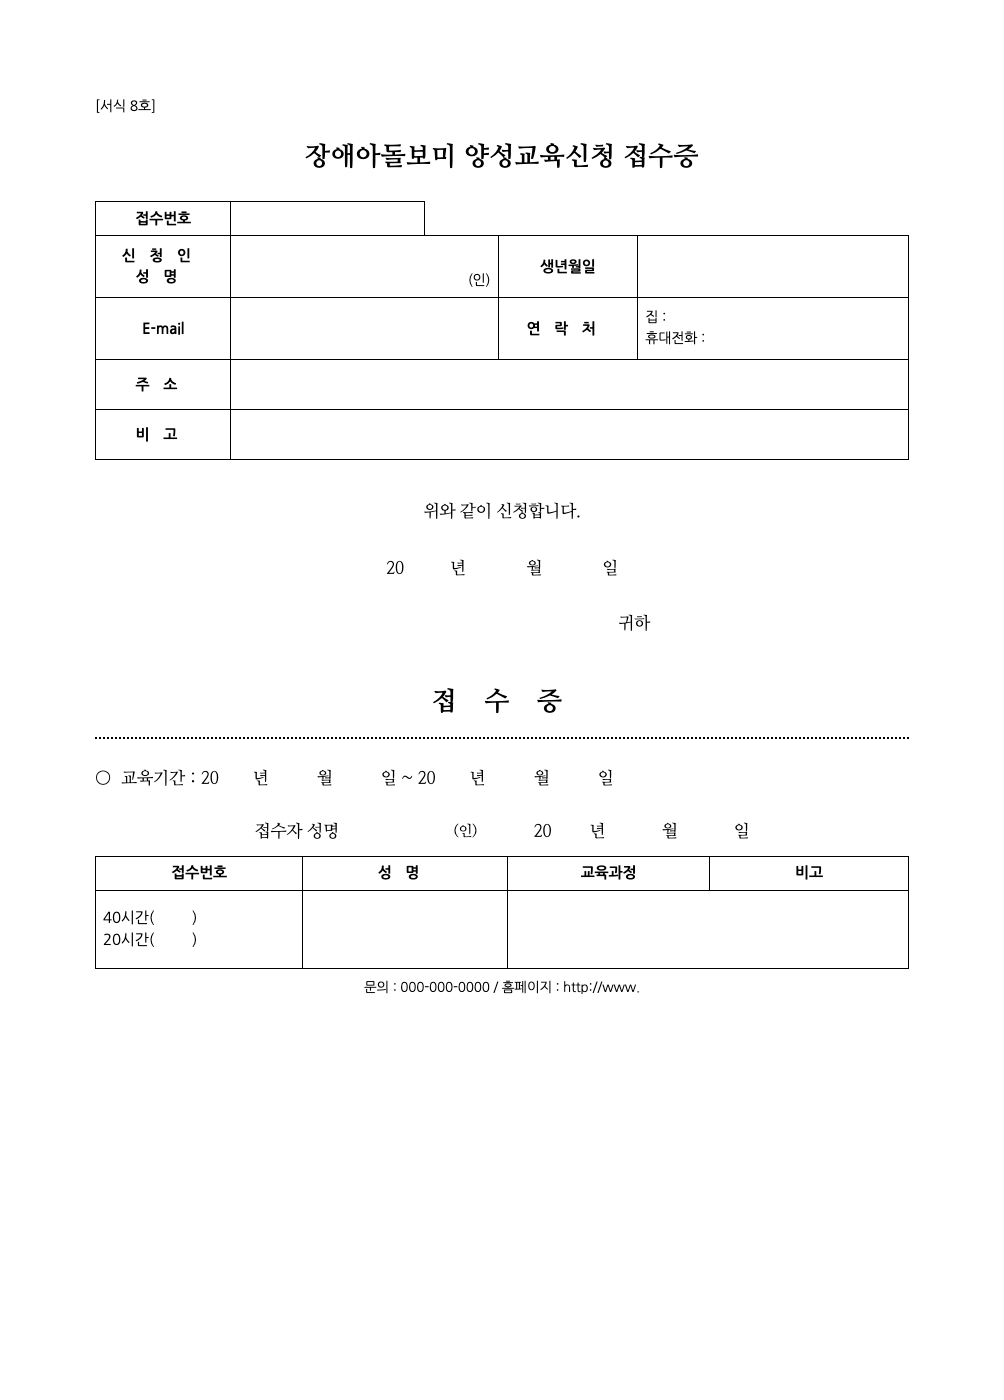
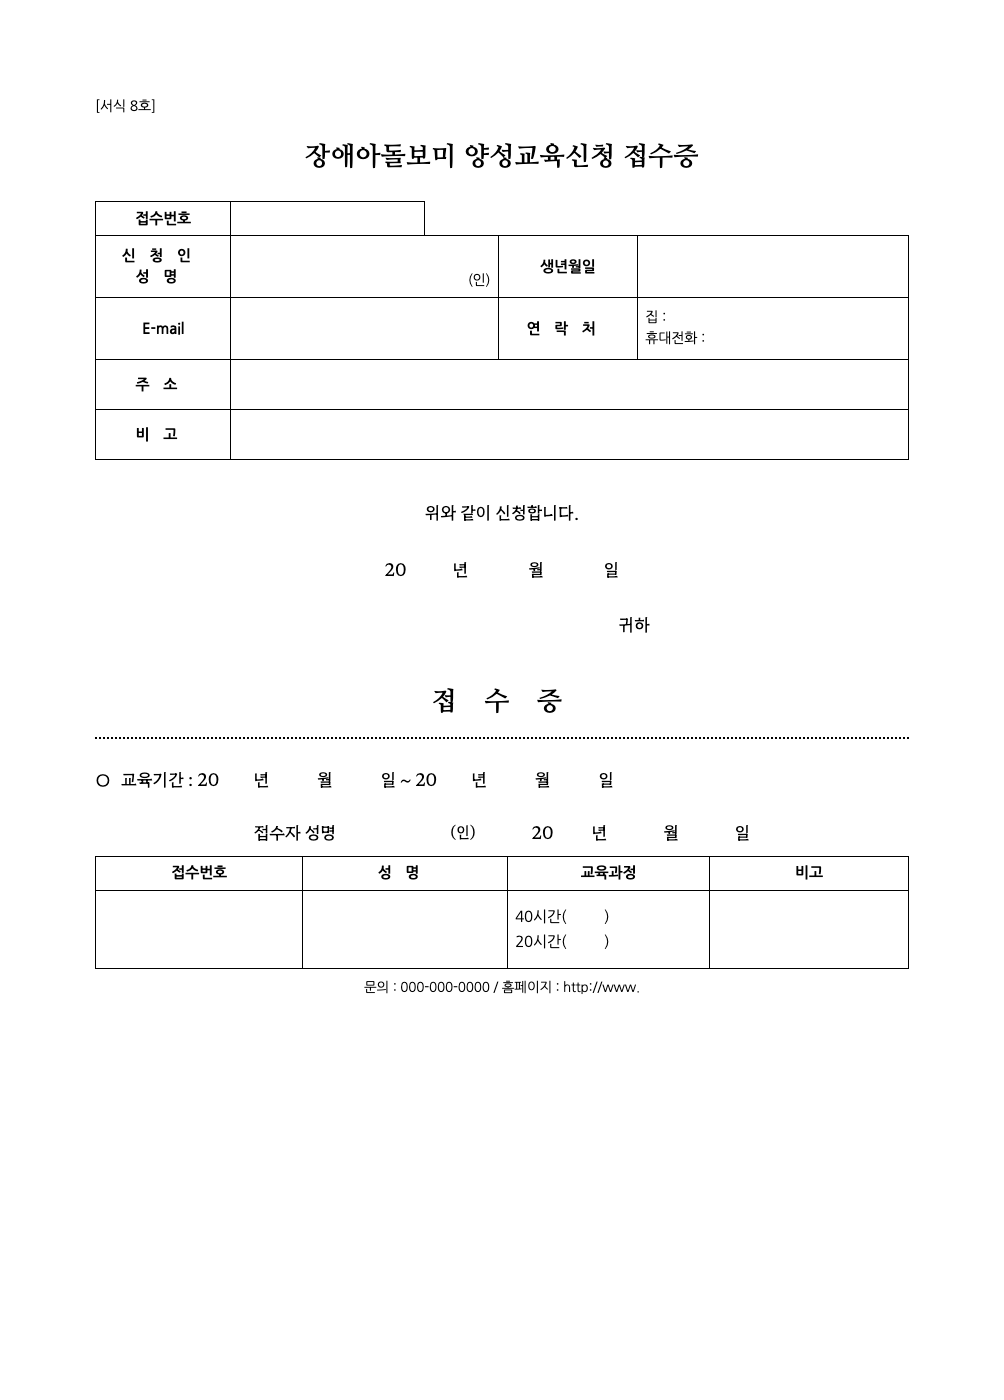
4_replica: 서식8호 접수증 깨진 span 태그 복구 (접수번호·성명 셀 분리, 40/20시간 괄호는 radio), 재렌더

diff --git a/4_replica/html/1편_서식8호_장애아돌보미_양성교육신청_접수증-1.html b/4_replica/html/1편_서식8호_장애아돌보미_양성교육신청_접수증-1.html
@@ -92,9 +92,11 @@
     <td class="vl"><b>비고</b></td>
   </tr>
   <tr>
-    <td style="height:78px;position:relative"><span data-f="number"t:1.7">
-      <div>40시간(<span data-f="checkbox" style="display:inline-block;width:38px">&nbsp;</span>)</div>
-      <div>20시간(<span data-f="checkbox" style="display:inline-block;width:38px">&nbsp;</span>)</div>
+    <td style="height:78px;position:relative"><span data-f="number" class="cgf"></span></td>
+    <td style="position:relative"><span data-f="text" class="cgf"></span></td>
+    <td style="line-height:1.7">
+      <div>40시간(<span data-f="radio" style="display:inline-block;width:38px">&nbsp;</span>)</div>
+      <div>20시간(<span data-f="radio" style="display:inline-block;width:38px">&nbsp;</span>)</div>
     </td>
     <td style="position:relative"><span data-f="text" class="cgf"></span></td>
   </tr>
